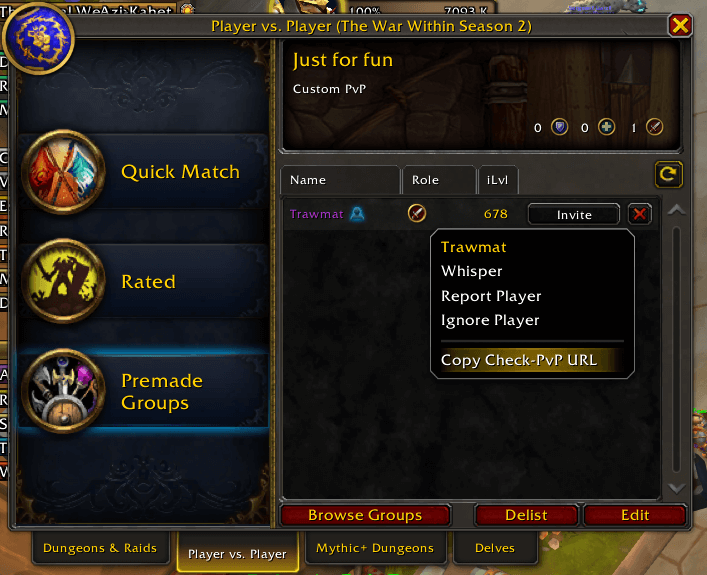
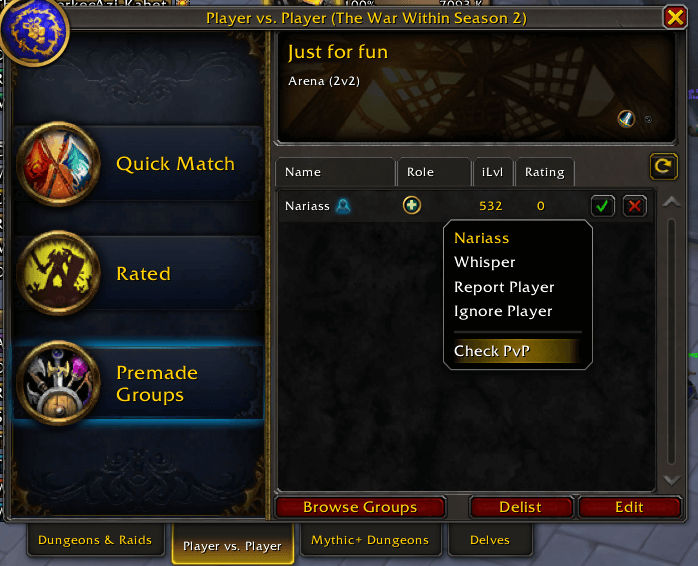
Update README, CHANGELOG, and commands for improved user experience and functionality
- Removed the "Copy Check-PvP URL" terminology, replacing it with "Check PvP" for clarity.
- Updated README to reflect new copy modes: Name-Realm Mode and URL Mode, including usage instructions.
- Enhanced CHANGELOG to remove the unreleased section
- Added new commands for switching copy modes in commands.lua.
- Updated UI dialog to accommodate new copy text functionality.
- Added new images for the Name-Realm and URL dialog boxes, while removing the old URL dialog image.

diff --git a/README.md b/README.md
@@ -69,11 +69,21 @@ The addon is automatically distributed to multiple platforms via GitHub Actions:
 ## Usage
 
 1. **Right-click on any player** (target, party member, raid member, guild member, friend, enemy, or yourself)
-2. Look for **"Copy Check-PvP URL"** in the context menu
-3. **Click the option** to open a dialog with the Check-PvP.fr URL
-4. **Press Ctrl+C** to copy the URL to your clipboard
+2. Look for **"Check PvP"** in the context menu
+3. **Click the option** to open a dialog with either the name-realm format or Check-PvP.fr URL (depending on your copy mode)
+4. **Press Ctrl+C** to copy the text to your clipboard
 5. **Press Enter or Escape** to close the dialog
-6. Open the URL in your browser to view the player's PvP statistics
+6. If copying URLs: Open the URL in your browser to view the player's PvP statistics
+7. If copying name-realm: Use the format for Discord, chat, or other applications
+
+### Copy Modes
+
+The addon supports two copy modes that can be switched using slash commands:
+
+- **Name-Realm Mode** (default): Copies "PlayerName-RealmName" format for easy sharing in chat
+- **URL Mode**: Copies full Check-PvP.fr URLs for direct browser access
+
+Use `/checkpvp usename` or `/checkpvp useurl` to switch between modes.
 
 > **Note**: If the website shows "character not found", don't worry! See the detailed step-by-step guide with screenshots in the [Character Not Found section](#character-not-found---step-by-step-fix) below to manually search for the character (this will fetch the latest data from Blizzard's servers).
 
@@ -84,15 +94,27 @@ The addon is automatically distributed to multiple platforms via GitHub Actions:
 **Step 1: Right-click on your character**
 
 ![Self Example](./assets/images/self-example.png)
-*Right-click on your character to see the "Copy Check-PvP URL" option in the context menu*
+*Right-click on your character to see the "Check PvP" option in the context menu*
 
-**Step 2: URL Dialog appears**
-![URL Dialog](./assets/images/url-dialog.png)
-*The dialog appears with the Check-PvP.fr URL ready to copy (Press Ctrl+C to copy)*
+**Step 2: Check PvP Dialog appears**
 
-**Step 3: Successful Check-PvP.fr result**
+The dialog that appears depends on your current copy mode:
+
+**Name-Realm Mode (default):**
+![Name-Realm Dialog](./assets/images/copy-name-realm-dialog.png)
+*Dialog showing name-realm format ready to copy (Press Ctrl+C to copy)*
+
+**URL Mode:**
+![URL Dialog](./assets/images/copy-url-dialog.png)
+*Dialog showing Check-PvP.fr URL ready to copy (Press Ctrl+C to copy)*
+
+**Step 3: Using the copied content**
+
+- **If in Name-Realm mode**: Use the "PlayerName-RealmName" format to paste into website search bar and open character profile
+- **If in URL mode**: Open the URL in your browser to view character profile
+
 ![Successful Website Result](./assets/images/website-success-example.png)
-*Open the URL in your browser to view the player's PvP statistics and profile*
+*Example of Check-PvP.fr showing player's PvP statistics and profile*
 
 ### Character Not Found - Step by Step Fix
 If the website shows "character not found", you can manually search for them (this will fetch the latest data on the website and make the profile appear):
@@ -143,6 +165,7 @@ The addon works in multiple contexts as demonstrated in the screenshots above:
 - **Friends list** - Right-click on friends
 - **Battle.net friends** - Right-click on Battle.net friends
 - **Enemy players** - Right-click on opposing faction players
+- **In-chat players** - Right-click on any player in chat
 
 ## Requirements
 
@@ -157,11 +180,17 @@ The addon has a simple debug mode that can be toggled using slash commands:
 
 - `/checkpvp` or `/cpvp` - Show available commands
 - `/checkpvp debug` - Toggle debug output
+- `/checkpvp useurl` - Copy full Check-PvP URLs
+- `/checkpvp usename` - Copy name-realm format (e.g., "PlayerName-RealmName") (default)
+- `/checkpvp mode` - Show current copy mode
 
 ### Examples
 
 ```
 /checkpvp debug        # Toggle debug mode
+/checkpvp usename      # Copy name-realm format (default)
+/checkpvp useurl       # Copy full URLs to Check-PvP.fr
+/checkpvp mode         # Show current copy mode
 ```
 
 Debug setting is automatically saved and will persist between game sessions.
@@ -201,9 +230,12 @@ The project uses GitHub Actions for:
 ```
 CheckPvPAssistant/
 ├── CheckPvPAssistant.toc           # Addon metadata and load order
+├── .github/                        # GitHub Actions configuration
 ├── assets/                         # Images and screenshots
 │   ├── images/                     # Image files
 │   └── README.md                   # Image documentation
+├── ReleaseNotes/                   # Release notes for each version
+├── scripts/                        # Scripts for automated testing, release, and package validation
 ├── src/
 │   ├── config.lua                  # Configuration management
 │   ├── db/
@@ -219,7 +251,9 @@ CheckPvPAssistant/
 │   └── core.lua                    # Main initialization and coordination
 ├── CHANGELOG.md                    # Version history and changes
 ├── README.md                       # This file
+├── LICENSE                         # License file
 └── TODO.md                         # Future development plans
+
 ```
 
 ### Debug Mode

diff --git a/assets/README.md b/assets/README.md
@@ -6,57 +6,62 @@ This directory contains all visual assets for the CheckPvPAssistant addon docume
 
 ### 📷 Screenshots Created ✅
 
-1. **`url-dialog.png`** ✅
-   - The dialog box that appears with the Check-PvP.fr URL
-   - Shows the URL text and copy instructions
+1. **`copy-name-realm-dialog.png`** ✅
+   - The dialog box that appears with the name-realm format (default mode)
+   - Shows the "PlayerName-RealmName" format and copy instructions
    - Size: 33KB
 
-2. **`guild-example.png`** ✅
+2. **`copy-url-dialog.png`** ✅
+   - The dialog box that appears with the Check-PvP.fr URL
+   - Shows the URL text and copy instructions
+   - Size: 34KB
+
+3. **`guild-example.png`** ✅
    - Context menu when right-clicking on a guild member
    - Shows guild roster with context menu open
-   - Size: 143KB
+   - Size: 131KB
 
-3. **`community-example.png`** ✅
+4. **`community-example.png`** ✅
    - Context menu when right-clicking on a community member
    - Shows community member list with context menu open
-   - Size: 133KB
+   - Size: 129KB
 
-4. **`lfg-creator-example.png`** ✅
+5. **`lfg-creator-example.png`** ✅
    - Context menu when right-clicking on LFG group creator
    - Shows LFG interface with context menu open
-   - Size: 107KB
+   - Size: 101KB
 
-5. **`lfg-seeker-example.png`** ✅
+6. **`lfg-seeker-example.png`** ✅
    - Context menu when right-clicking on LFG seeker
    - Shows LFG interface with context menu open
-   - Size: 138KB
+   - Size: 106KB
 
-6. **`self-example.png`** ✅
+7. **`self-example.png`** ✅
    - Context menu when right-clicking on your own character
    - Shows player's own context menu
-   - Size: 93KB
+   - Size: 85KB
 
-7. **`website-success-example.png`** ✅
+8. **`website-success-example.png`** ✅
    - Screenshot of successful Check-PvP.fr player profile
    - Shows the website layout and PvP statistics
    - Size: 230KB
 
-8. **`website-fail-example.png`** ✅
+9. **`website-fail-example.png`** ✅
    - Screenshot showing "character not found" error
    - Shows the initial error state
    - Size: 40KB
 
-9. **`website-fail-example-step-1.png`** ✅
-   - Step 1: Copy character information from error
-   - Shows how to copy name and realm
-   - Size: 39KB
+10. **`website-fail-example-step-1.png`** ✅
+    - Step 1: Copy character information from error
+    - Shows how to copy name and realm
+    - Size: 39KB
 
-10. **`website-fail-example-step-2.png`** ✅
+11. **`website-fail-example-step-2.png`** ✅
     - Step 2: Manual search on website
     - Shows pasting into search bar
     - Size: 44KB
 
-11. **`website-fail-example-step-3.png`** ✅
+12. **`website-fail-example-step-3.png`** ✅
     - Step 3: Successful character profile after manual search
     - Shows the final result with character data
     - Size: 161KB

diff --git a/CHANGELOG.md b/CHANGELOG.md
@@ -5,17 +5,6 @@ All notable changes to CheckPvPAssistant will be documented in this file.
 The format is based on [Keep a Changelog](https://keepachangelog.com/en/1.0.0/),
 and this project adheres to [Semantic Versioning](https://semver.org/spec/v2.0.0.html).
 
-## [Unreleased]
-
-### Added
-- TBD
-
-### Changed
-- TBD
-
-### Fixed
-- TBD
-
 ## [1.0.1] - 2025-07-10
 
 ### Added
